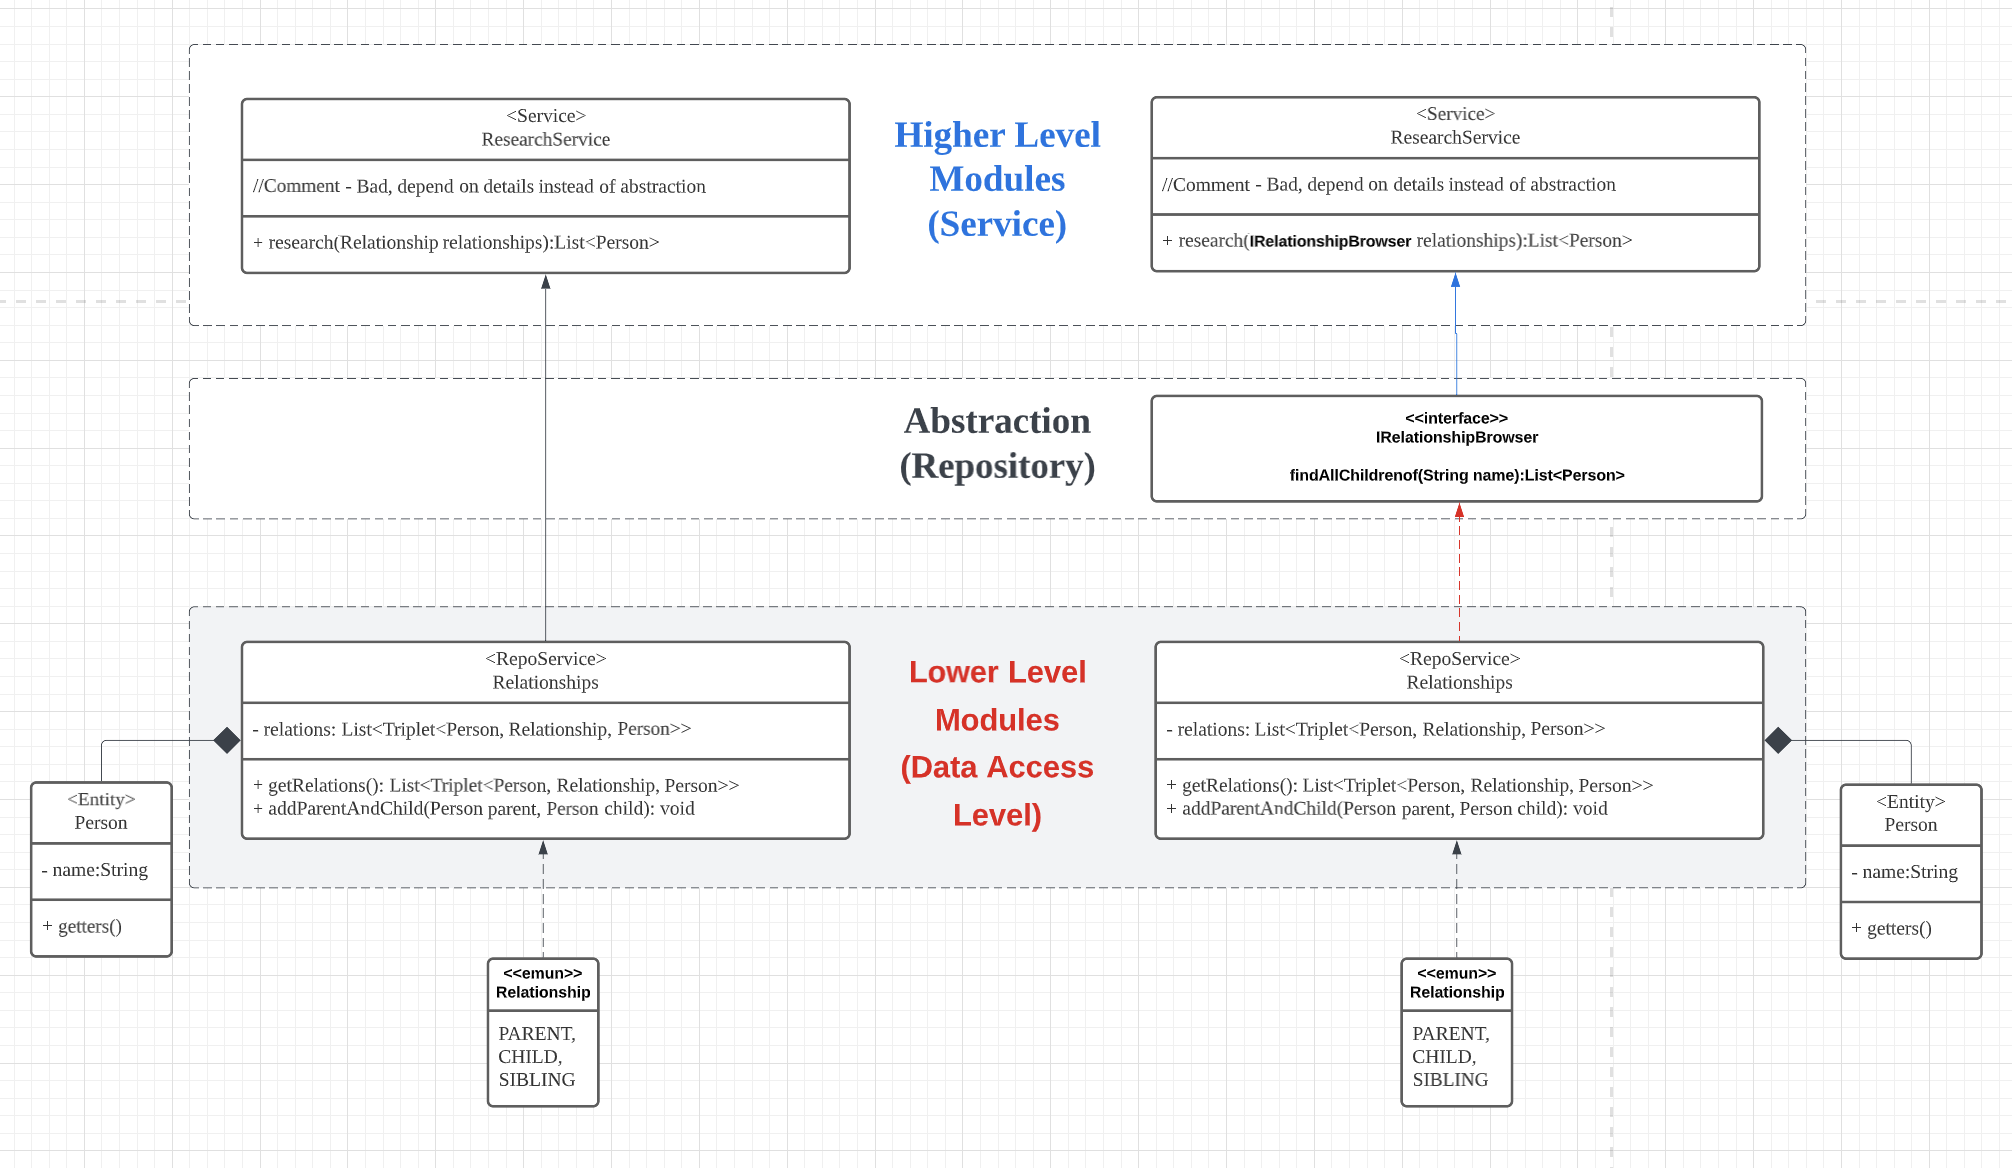
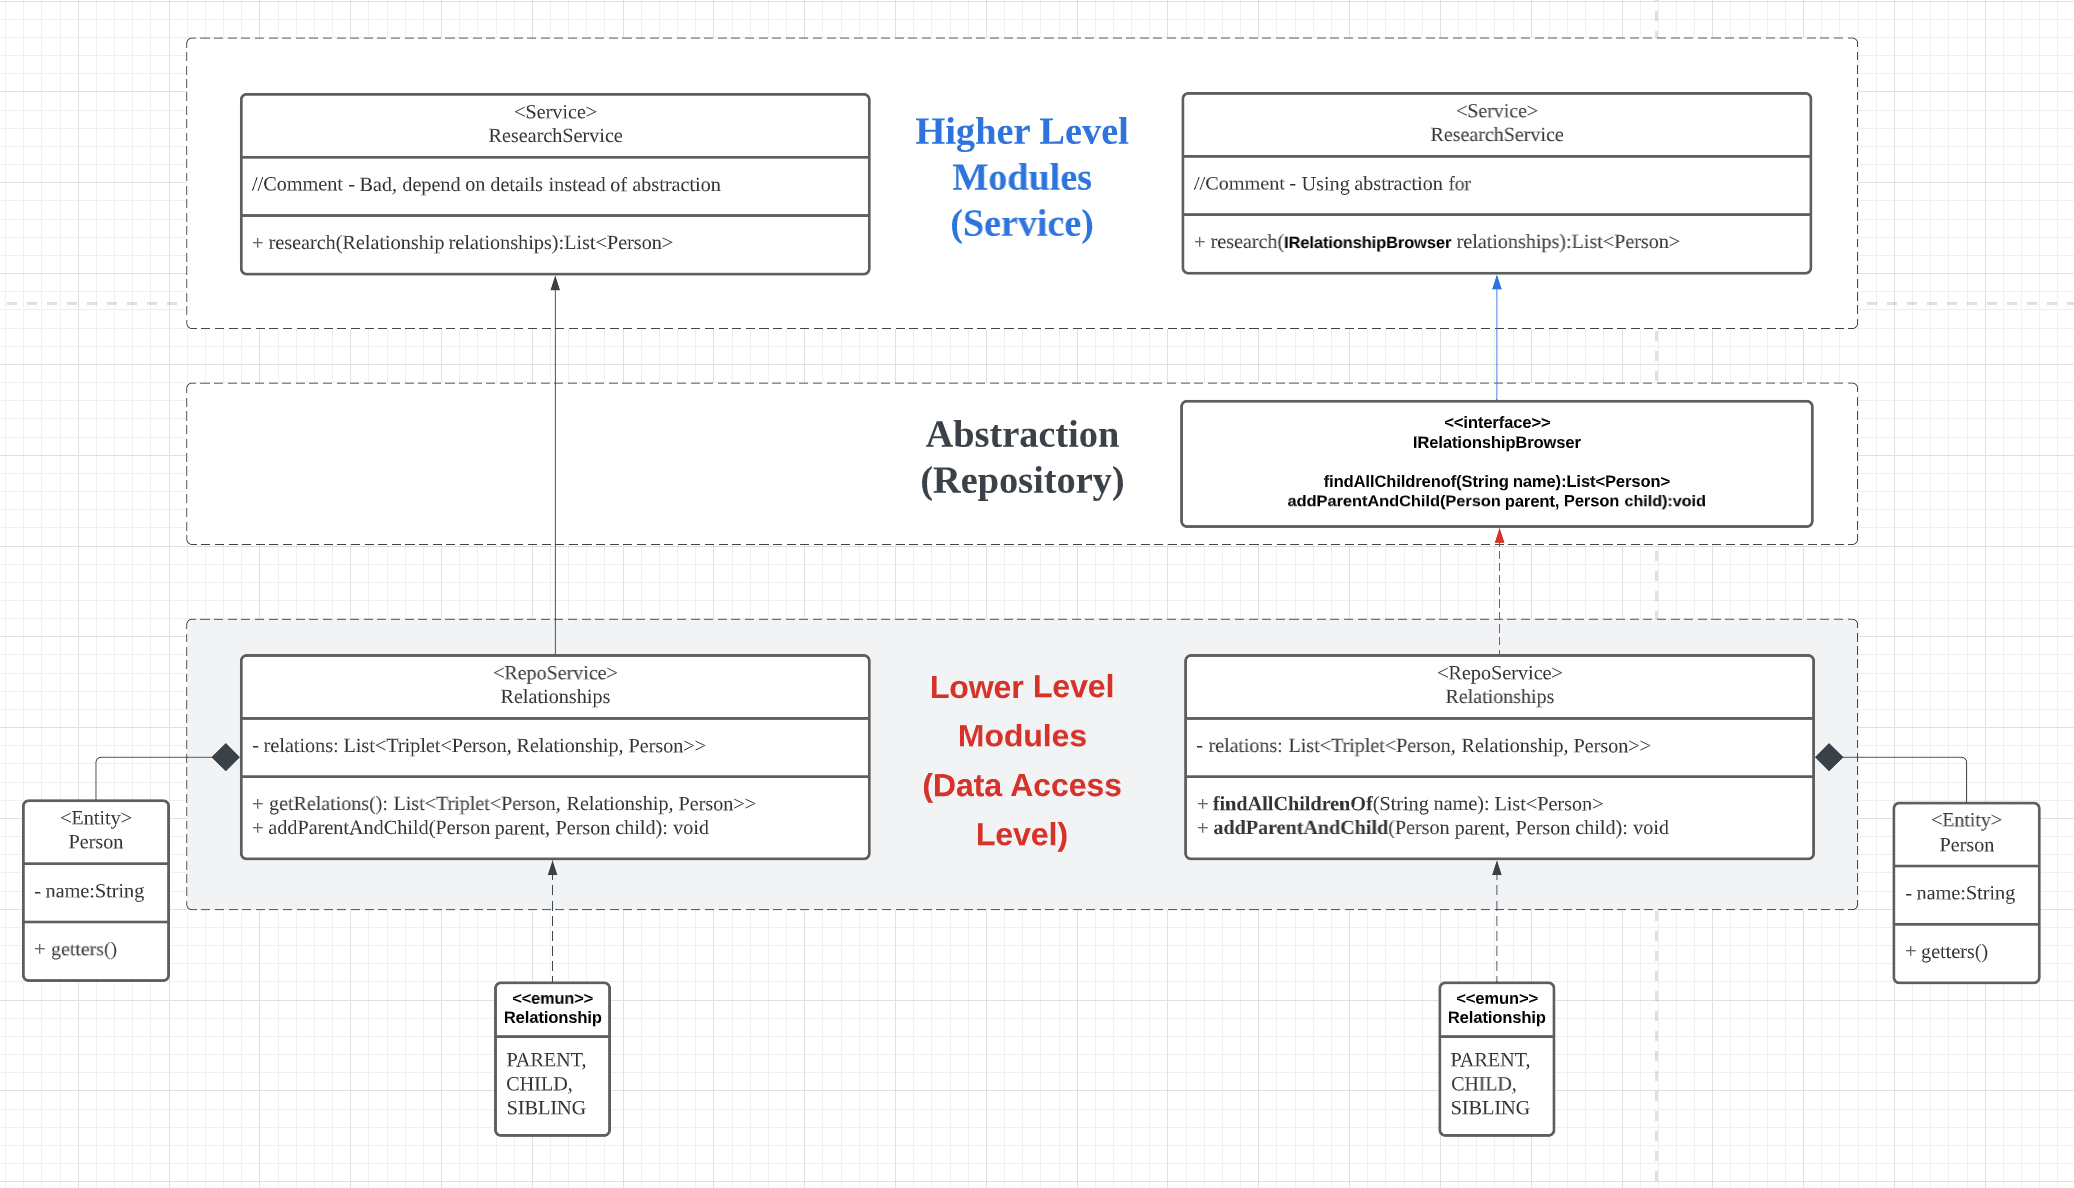
Design principle(SOLID) - DIP PART 2

diff --git a/designPattern/SOLID/src/main/java/dependencyInversionPrinciple/DIP.java b/designPattern/SOLID/src/main/java/dependencyInversionPrinciple/DIP.java
@@ -1,10 +1,31 @@
 package dependencyInversionPrinciple;
 
+import dependencyInversionPrinciple.badExample.BRelationships;
+import dependencyInversionPrinciple.badExample.BResearch;
+import dependencyInversionPrinciple.goodExample.IRelationshipBrowser;
+import dependencyInversionPrinciple.goodExample.Relationships;
+import dependencyInversionPrinciple.goodExample.Research;
+
 public class DIP {
 
 	public static void main(String[] args) {
-		// TODO Auto-generated method stub
+	    Person parent = new Person("John");
+	    Person child1 = new Person("Chris");
+	    Person child2 = new Person("Matt");
 
+	    // low-level module
+	    BRelationships bRelationships = new BRelationships();
+	    bRelationships.addParentAndChild(parent, child1);
+	    bRelationships.addParentAndChild(parent, child2);
+	    
+	    new BResearch(bRelationships, "John");
+	    
+	    // high-level module
+	    IRelationshipBrowser relationships = new Relationships();
+	    relationships.addParentAndChild(parent, child1);
+	    relationships.addParentAndChild(parent, child2);
+
+	    new Research(relationships, "John");
 	}
 
 }

diff --git a/designPattern/SOLID/src/main/java/dependencyInversionPrinciple/goodExample/Relationships.java b/designPattern/SOLID/src/main/java/dependencyInversionPrinciple/goodExample/Relationships.java
@@ -1,0 +1,32 @@
+package dependencyInversionPrinciple.goodExample;
+
+import java.util.ArrayList;
+import java.util.List;
+import java.util.Objects;
+import java.util.stream.Collectors;
+
+import org.javatuples.Triplet;
+
+import dependencyInversionPrinciple.Constants.RELATIONSHIPS;
+import dependencyInversionPrinciple.Person;
+
+public class Relationships implements IRelationshipBrowser
+{
+
+  // Triplet class requires javatuples
+  private List<Triplet<Person, RELATIONSHIPS, Person>> relations = new ArrayList<>();
+  
+  public List<Person> findAllChildrenOf(String name) {
+
+	    return relations.stream()
+	      .filter(x -> Objects.equals(x.getValue0().getName(), name) && x.getValue1() == RELATIONSHIPS.PARENT)
+	      .map(Triplet::getValue2)
+	      .collect(Collectors.toList());
+	  }
+
+  public void addParentAndChild(Person parent, Person child)
+  {
+    relations.add(new Triplet<>(parent, RELATIONSHIPS.PARENT, child));
+    relations.add(new Triplet<>(child, RELATIONSHIPS.CHILD, parent));
+  }
+}

diff --git a/designPattern/SOLID/src/main/java/dependencyInversionPrinciple/badExample/BRelationships.java b/designPattern/SOLID/src/main/java/dependencyInversionPrinciple/badExample/BRelationships.java
@@ -1,0 +1,24 @@
+package dependencyInversionPrinciple.badExample;
+
+import java.util.ArrayList;
+import java.util.List;
+
+import org.javatuples.Triplet;
+
+import dependencyInversionPrinciple.Person;
+import dependencyInversionPrinciple.Constants.RELATIONSHIPS;
+
+public class BRelationships {
+	  // Triplet class requires javatuples
+	  private List<Triplet<Person, RELATIONSHIPS, Person>> relations = new ArrayList<>();
+
+	  public List<Triplet<Person, RELATIONSHIPS, Person>> getRelations() {
+	    return relations;
+	  }
+
+	  public void addParentAndChild(Person parent, Person child)
+	  {
+	    relations.add(new Triplet<>(parent, RELATIONSHIPS.PARENT, child));
+	    relations.add(new Triplet<>(child, RELATIONSHIPS.CHILD, parent));
+	  }
+}

diff --git a/designPattern/SOLID/src/main/java/dependencyInversionPrinciple/badExample/BResearch.java b/designPattern/SOLID/src/main/java/dependencyInversionPrinciple/badExample/BResearch.java
@@ -1,0 +1,19 @@
+package dependencyInversionPrinciple.badExample;
+
+import java.util.List;
+
+import org.javatuples.Triplet;
+
+import dependencyInversionPrinciple.Constants.RELATIONSHIPS;
+import dependencyInversionPrinciple.Person;
+
+public class BResearch {
+	  public BResearch(BRelationships relationships, String name)
+	  {
+	    // high-level: find all of john's children
+	    List<Triplet<Person, RELATIONSHIPS, Person>> relations = relationships.getRelations();
+	    
+	    relations.stream().filter(x -> x.getValue0().getName().equals(name) && x.getValue1() == RELATIONSHIPS.PARENT)
+	      .forEach(ch -> System.out.println("John has a child called " + ch.getValue2().getName()));
+	  }
+}

diff --git a/designPattern/SOLID/src/main/java/dependencyInversionPrinciple/goodExample/Research.java b/designPattern/SOLID/src/main/java/dependencyInversionPrinciple/goodExample/Research.java
@@ -1,0 +1,14 @@
+package dependencyInversionPrinciple.goodExample;
+
+import java.util.List;
+
+import dependencyInversionPrinciple.Person;
+
+public class Research {
+	  public Research(IRelationshipBrowser browser, String name)
+	  {
+	    List<Person> children = browser.findAllChildrenOf(name);
+	    for (Person child : children)
+	      System.out.println(name+" has a child called " + child.getName());
+	  }
+}

diff --git a/designPattern/SOLID/src/main/java/dependencyInversionPrinciple/goodExample/IRelationshipBrowser.java b/designPattern/SOLID/src/main/java/dependencyInversionPrinciple/goodExample/IRelationshipBrowser.java
@@ -1,0 +1,10 @@
+package dependencyInversionPrinciple.goodExample;
+
+import java.util.List;
+
+import dependencyInversionPrinciple.Person;
+
+public interface IRelationshipBrowser {
+	List<Person> findAllChildrenOf(String name);
+	void addParentAndChild(Person parent, Person child);
+}
